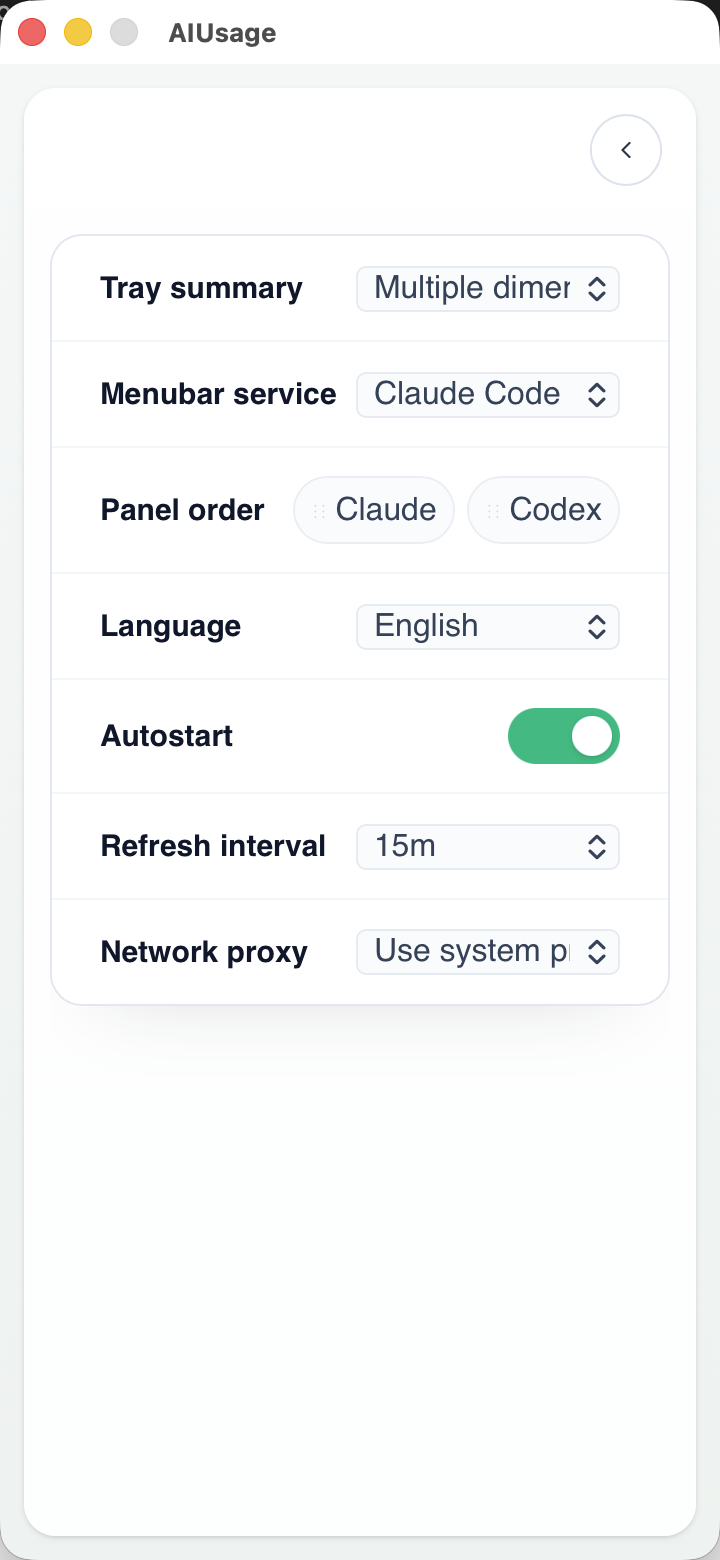
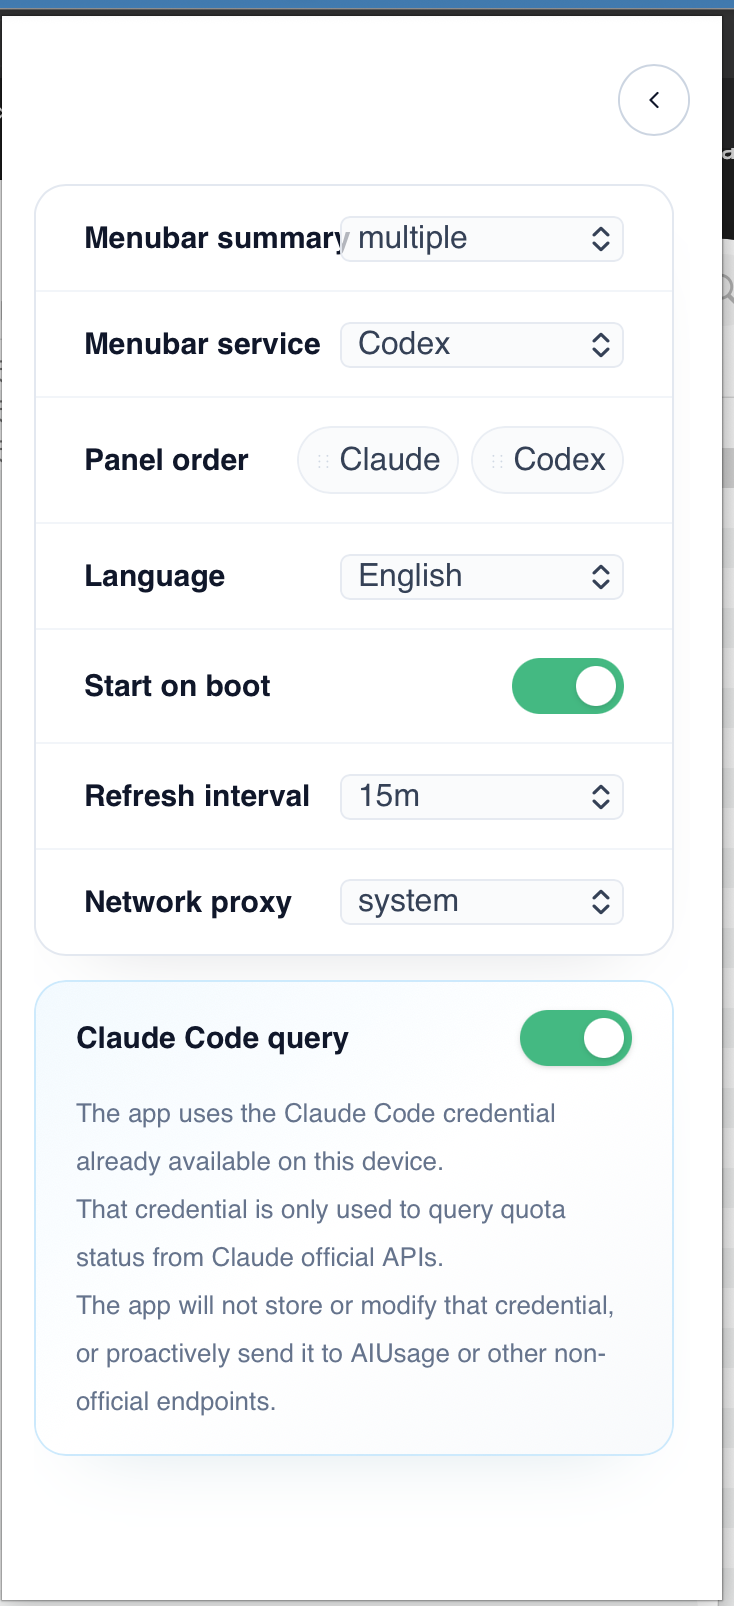
docs: refine screenshots and ui copy

diff --git a/src/app/shared/i18n.ts b/src/app/shared/i18n.ts
@@ -154,8 +154,8 @@ const baseCopy: CopyTree = {
   subtitle: "Usage Panel",
   allServicesHealthy: "All services look healthy",
   noServicesConnected: "No services connected yet",
-  panelWarningSummary: "{service} {dimension} is running low",
-  panelDangerSummary: "{service} {dimension} is critical",
+  panelWarningSummary: "{service} {dimension} running low",
+  panelDangerSummary: "{service} {dimension} critical",
   settings: "Settings",
   preferences: "Preferences",
   notifications: "Notifications",
@@ -177,13 +177,13 @@ const baseCopy: CopyTree = {
   demoConfiguration: "Manage local Codex CLI sync and desktop preferences.",
   saved: "Settings saved",
   trayPreview: "Tray preview",
-  traySummaryMode: "Tray summary",
-  summaryHidden: "Hidden",
-  traySummaryLowest: "Lowest remaining",
-  traySummary5h: "5h window",
-  traySummaryWeek: "7d / week window",
-  traySummaryMulti: "Multiple dimensions",
-  traySummaryIconOnly: "Icon only",
+  traySummaryMode: "Menubar summary",
+  summaryHidden: "hidden",
+  traySummaryLowest: "lowest remain",
+  traySummary5h: "5h limits",
+  traySummaryWeek: "weekly limits",
+  traySummaryMulti: "multiple",
+  traySummaryIconOnly: "icon only",
   codexCli: "Codex CLI",
   codexCliHint: "This iteration reads real usage only from the local Codex CLI session. No manual account or credential entry is required.",
   syncStatus: "Sync status",
@@ -210,7 +210,7 @@ const baseCopy: CopyTree = {
   language: "Language",
   refreshInterval: "Refresh interval",
   refreshIntervalHint: "Choose 5, 10, 15, or 30 minutes",
-  autostart: "Autostart",
+  autostart: "Start on boot",
   actions: "Actions",
   savePreferences: "Save preferences",
   notificationActions: "Notification",
@@ -224,9 +224,9 @@ const baseCopy: CopyTree = {
   hourShort: "h",
   dayShort: "d",
   weekShort: "week",
-  weeklyQuotaLabel: "Weekly quota",
-  dailyQuotaLabel: "Daily quota",
-  monthlyQuotaLabel: "Monthly quota",
+  weeklyQuotaLabel: "Weekly limits",
+  dailyQuotaLabel: "Daily limits",
+  monthlyQuotaLabel: "Monthly limits",
   menubarService: "Menubar service",
   serviceOrder: "Panel order",
   claudeCodeLabel: "Claude Code",
@@ -234,9 +234,9 @@ const baseCopy: CopyTree = {
   claudeCodeNotConnected: "Claude Code not connected. Install Claude Code CLI and log in.",
   networkProxy: "Network proxy",
   networkProxyMode: "Proxy mode",
-  networkProxyModeSystem: "Use system proxy",
-  networkProxyModeManual: "Manual proxy",
-  networkProxyModeOff: "No proxy",
+  networkProxyModeSystem: "system",
+  networkProxyModeManual: "manual",
+  networkProxyModeOff: "none",
   networkProxyUrl: "Proxy URL",
   networkProxyUrlHint: "Use a full URL such as http://127.0.0.1:7890 or socks5://127.0.0.1:1080",
   networkProxyUrlInvalid: "Enter a full proxy URL before saving.",
@@ -277,17 +277,17 @@ const baseCopy: CopyTree = {
   codexCompactLabel: "Codex",
   claudeCodeCompactLabel: "Claude",
   promotionNoneKnown: "No promotion right now",
-  promotionCompactStatusActiveWindow: "promo on",
-  promotionCompactStatusActiveGeneral: "promo on",
+  promotionCompactStatusActiveWindow: "promo active",
+  promotionCompactStatusActiveGeneral: "promo active",
   promotionCompactStatusInactiveWindow: "off",
   promotionCompactStatusEligibilityUnknown: "pending",
   promotionCompactStatusNone: "none",
-  promotionStatusActiveWindow: "discount window live",
-  promotionStatusActiveGeneral: "discount window live",
-  promotionStatusInactiveWindow: "outside discount window",
-  promotionStatusEligibilityUnknown: "discount eligibility pending",
+  promotionStatusActiveWindow: "promotion active",
+  promotionStatusActiveGeneral: "promotion active",
+  promotionStatusInactiveWindow: "outside promotion window",
+  promotionStatusEligibilityUnknown: "promotion eligibility pending",
   promotionStatusNone: "no promotion",
-  promotionDetailContinuous: "All-day discount",
+  promotionDetailContinuous: "All-day promotion",
   promotionDetailLocalWindowTemplate: "outside weekdays {range} ({timeZone})",
   promotionTriggerAria: "Preview all promotion states",
   promotionPopoverLabel: "All promotion states"
@@ -322,12 +322,12 @@ const localeCopy: Record<UserPreferences["language"], Partial<CopyTree>> = {
     demoConfiguration: "管理本地 Codex CLI 同步与桌面偏好设置。",
     saved: "设置已保存",
     trayPreview: "托盘摘要预览",
-    traySummaryMode: "托盘摘要规则",
+    traySummaryMode: "菜单栏数值",
     summaryHidden: "隐藏",
     traySummaryLowest: "最低余量",
-    traySummary5h: "5 小时窗口",
-    traySummaryWeek: "7 天 / 周窗口",
-    traySummaryMulti: "多维摘要",
+    traySummary5h: "5 小时限额",
+    traySummaryWeek: "每周限额",
+    traySummaryMulti: "多维度",
     traySummaryIconOnly: "仅图标",
     codexCli: "Codex CLI",
     codexCliHint: "本迭代只从本地 Codex CLI 会话读取真实额度，不需要手动录入账户或凭证。",
@@ -369,9 +369,9 @@ const localeCopy: Record<UserPreferences["language"], Partial<CopyTree>> = {
     hourShort: " 小时",
     dayShort: " 天",
     weekShort: "周",
-    weeklyQuotaLabel: "每周额度",
-    dailyQuotaLabel: "每日额度",
-    monthlyQuotaLabel: "每月额度",
+    weeklyQuotaLabel: "每周限额",
+    dailyQuotaLabel: "每日限额",
+    monthlyQuotaLabel: "每月限额",
     menubarService: "菜单栏服务",
     serviceOrder: "面板顺序",
     claudeCodeLabel: "Claude Code",
@@ -379,7 +379,7 @@ const localeCopy: Record<UserPreferences["language"], Partial<CopyTree>> = {
     claudeCodeNotConnected: "Claude Code 未连接。请安装 Claude Code CLI 并登录。",
     networkProxy: "网络代理",
     networkProxyMode: "代理模式",
-    networkProxyModeSystem: "使用系统代理",
+    networkProxyModeSystem: "系统代理",
     networkProxyModeManual: "手动输入",
     networkProxyModeOff: "不使用代理",
     networkProxyUrl: "代理地址",

diff --git a/src/app/settings/SettingsView.test.tsx b/src/app/settings/SettingsView.test.tsx
@@ -62,7 +62,7 @@ describe("SettingsView", () => {
     expect(screen.queryByText("连接")).not.toBeInTheDocument();
     expect(screen.queryByText("状态")).not.toBeInTheDocument();
 
-    expect(screen.getByRole("combobox", { name: "托盘摘要规则" })).toBeInTheDocument();
+    expect(screen.getByRole("combobox", { name: "菜单栏数值" })).toBeInTheDocument();
     expect(screen.getByRole("combobox", { name: "菜单栏服务" })).toBeInTheDocument();
     expect(screen.getByLabelText("Codex")).toBeInTheDocument();
     expect(screen.getByRole("combobox", { name: "语言" })).toBeInTheDocument();
@@ -74,7 +74,7 @@ describe("SettingsView", () => {
 
     const surfaces = document.querySelectorAll(".settings-surface");
     expect(surfaces).toHaveLength(2);
-    expect(screen.getByRole("combobox", { name: "托盘摘要规则" }).closest(".settings-surface")).toBe(
+    expect(screen.getByRole("combobox", { name: "菜单栏数值" }).closest(".settings-surface")).toBe(
       surfaces[0]
     );
     expect(screen.getByText("Claude Code 查询").closest(".settings-surface")).toBe(surfaces[1]);
@@ -83,12 +83,12 @@ describe("SettingsView", () => {
   it("keeps standard settings rows in an inline two-column layout at shell width", () => {
     renderSettings();
 
-    const traySummaryRow = screen.getByRole("combobox", { name: "托盘摘要规则" }).closest("label");
+    const traySummaryRow = screen.getByRole("combobox", { name: "菜单栏数值" }).closest("label");
     expect(traySummaryRow).toBeInTheDocument();
     expect(traySummaryRow?.className).toContain("grid-cols-[112px_minmax(0,1fr)]");
     expect(traySummaryRow?.className).not.toContain("md:grid-cols");
 
-    const controlWrapper = screen.getByRole("combobox", { name: "托盘摘要规则" }).parentElement;
+    const controlWrapper = screen.getByRole("combobox", { name: "菜单栏数值" }).parentElement;
     expect(controlWrapper?.className).toContain("justify-self-end");
     expect(controlWrapper?.className).toContain("max-w-[212px]");
   });
@@ -112,7 +112,7 @@ describe("SettingsView", () => {
   it("uses lighter control chrome and more compact service-order pills", () => {
     renderSettings();
 
-    const traySummary = screen.getByRole("combobox", { name: "托盘摘要规则" });
+    const traySummary = screen.getByRole("combobox", { name: "菜单栏数值" });
     expect(traySummary.className).toContain("rounded-xl");
     expect(traySummary.className).toContain("bg-slate-50/70");
     expect(traySummary.className).toContain("text-[15px]");
@@ -139,7 +139,7 @@ describe("SettingsView", () => {
 
     renderSettings({ savePreferences });
 
-    const traySummary = screen.getByRole("combobox", { name: "托盘摘要规则" });
+    const traySummary = screen.getByRole("combobox", { name: "菜单栏数值" });
     await userEvent.selectOptions(traySummary, "window-week");
     await waitFor(() =>
       expect(savePreferences).toHaveBeenCalledWith(expect.objectContaining({ traySummaryMode: "window-week" }))
@@ -472,7 +472,7 @@ describe("SettingsView", () => {
     expect(screen.getByRole("button", { name: "返回" })).toBeInTheDocument();
     expect(screen.queryByText(/^返回$/)).not.toBeInTheDocument();
 
-    await userEvent.selectOptions(screen.getByRole("combobox", { name: "托盘摘要规则" }), "window-week");
+    await userEvent.selectOptions(screen.getByRole("combobox", { name: "菜单栏数值" }), "window-week");
     expect(screen.getByText("保存中...")).toBeInTheDocument();
 
     await act(async () => {

diff --git a/src/app/shared/i18n.test.ts b/src/app/shared/i18n.test.ts
@@ -23,7 +23,9 @@ describe("i18n fallback", () => {
 
     expect(zh.preferences).toBe("偏好设置");
     expect(zh.lastRefreshedAt).toBe("上次刷新");
-    expect(en.autostart).toBe("Autostart");
+    expect(en.autostart).toBe("Start on boot");
+    expect(en.summaryHidden).toBe("hidden");
+    expect(en.traySummaryIconOnly).toBe("icon only");
     expect(en.notificationActions).toBe("Notification");
   });
 
@@ -36,8 +38,8 @@ describe("i18n fallback", () => {
       .replace(/\s+/g, " ")
       .trim();
 
-    expect(dimension).toBe("5h window");
-    expect(warning).toBe("Codex 5h window is running low");
+    expect(dimension).toBe("5h limits");
+    expect(warning).toBe("Codex 5h limits running low");
     expect(warning.length).toBeLessThanOrEqual(32);
   });
 
@@ -108,7 +110,7 @@ describe("i18n fallback", () => {
         hiddenServiceCount: 1,
         fallbackState: null
       })
-    ).toBe("Codex discount window live 2x · Claude Code outside discount window 2x");
+    ).toBe("Codex promotion active 2x · Claude Code outside promotion window 2x");
   });
 
   it("returns localized labels for the promotion trigger and popover", () => {
@@ -133,6 +135,6 @@ describe("i18n fallback", () => {
       formatPromotionDetailTiming(getCopy("en-US"), {
         mode: "continuous"
       })
-    ).toBe("All-day discount");
+    ).toBe("All-day promotion");
   });
 });

diff --git a/src/components/panel/PromotionStatusLine.test.tsx b/src/components/panel/PromotionStatusLine.test.tsx
@@ -83,21 +83,21 @@ describe("PromotionStatusLine", () => {
 
     const popover = screen.getByTestId("promotion-status-popover");
     expect(screen.getByTestId("promotion-popover-item-codex")).toHaveTextContent(
-      "Codexdiscount window live2x"
+      "Codexpromotion active2x"
     );
     expect(screen.getByTestId("promotion-popover-item-claude-code")).toHaveTextContent(
-      "Claude Codeoutside discount window2x"
+      "Claude Codeoutside promotion window2x"
     );
     expect(screen.getByTestId("promotion-popover-status-codex")).toHaveTextContent(
-      "discount window live"
+      "promotion active"
     );
     expect(screen.getByTestId("promotion-popover-benefit-codex")).toHaveTextContent("2x");
     expect(screen.getByTestId("promotion-popover-status-claude-code")).toHaveTextContent(
-      "outside discount window"
+      "outside promotion window"
     );
     expect(screen.getByTestId("promotion-popover-benefit-claude-code")).toHaveTextContent("2x");
     expect(screen.getByTestId("promotion-popover-detail-codex")).toHaveTextContent(
-      "All-day discount"
+      "All-day promotion"
     );
     expect(screen.getByTestId("promotion-popover-detail-claude-code")).toHaveTextContent(
       "2026.03.13-2026.03.28 · outside weekdays 20:00-02:00 (UTC+08:00)"

diff --git a/src/components/panel/ServiceCard.test.tsx b/src/components/panel/ServiceCard.test.tsx
@@ -66,8 +66,8 @@ describe("ServiceCard", () => {
     );
 
     expect(screen.getByRole("heading", { name: "Claude Code" })).toBeInTheDocument();
-    expect(screen.getByText("5h window")).toBeInTheDocument();
-    expect(screen.getByText("Weekly quota")).toBeInTheDocument();
+    expect(screen.getByText("5h limits")).toBeInTheDocument();
+    expect(screen.getByText("Weekly limits")).toBeInTheDocument();
     expect(screen.queryByText("CLAUDE CODE / 5H")).not.toBeInTheDocument();
   });
 

diff --git a/src/app/panel/PanelView.test.tsx b/src/app/panel/PanelView.test.tsx
@@ -502,7 +502,7 @@ describe("PanelView", () => {
     const { AppShell } = await import("../shell/AppShell");
     render(<AppShell />);
 
-    expect(await screen.findByText("Codex 5h window is running low")).toBeInTheDocument();
+    expect(await screen.findByText("Codex 5h limits running low")).toBeInTheDocument();
     expect(screen.queryByText("...")).not.toBeInTheDocument();
 
     vi.resetModules();

diff --git a/README.md b/README.md
@@ -15,11 +15,14 @@ It supports macOS (tested) and Windows (not yet tested; testing is welcome).
 
 ## Screenshots
 
-Menu bar:
-
-![AIUsage menu bar](./screenshots/menu-bar.png)
-
 <table>
+  <tr>
+    <td align="center" colspan="2">
+      <strong>Menu bar</strong>
+      <br />
+      <img src="./screenshots/menu-bar.png" alt="AIUsage menu bar" width="560" />
+    </td>
+  </tr>
   <tr>
     <td align="center">
       <strong>Quota panel</strong>
